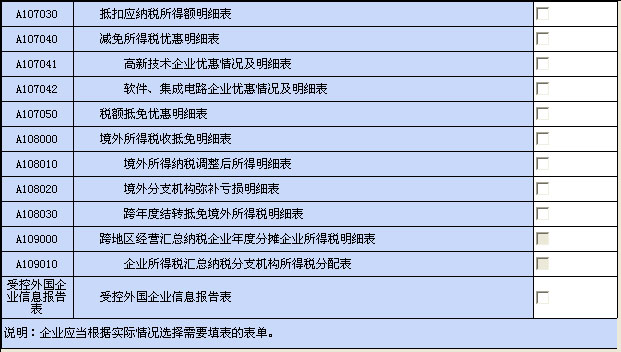
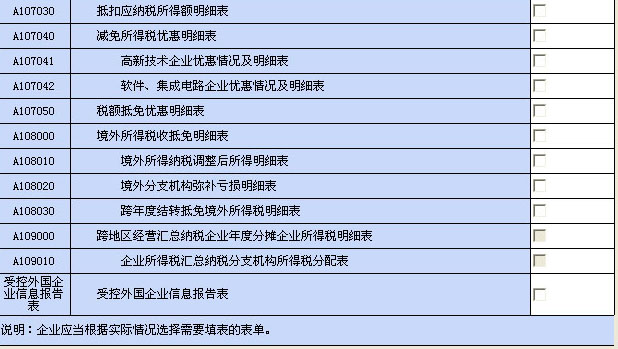
table1\table2

Changed region(s): [[0.0, 0.0, 1.0, 0.9742]]

diff --git a/www.12366.ha.cn/Application/Home/View/TableNode4/table1.html b/www.12366.ha.cn/Application/Home/View/TableNode4/table1.html
@@ -4,92 +4,11 @@
 <input type='hidden' id="root_name" value="增值税农产品核定抵扣（增值税一般纳税人使用）">
 <input type='hidden' id="table_name" value="农产品核定扣除增值税进项税额计算表（汇总表）">
 <input type='hidden' id="table_type" value="1">
-<table id="bodytable" width="616px;">
-<tr class='titletr title-notic'>
-    <td colspan = '7' id='titletd'>农产品核定扣除增值税进项税额计算表（汇总表）</td>
-</tr>
-<tr class='titletr title-notic'>
-    <td colspan = '7' class='font-weight'>（税额抵减情况表）</td>
-</tr>
-<tr class='titletr'>
-    <td colspan = '7'>&nbsp;</td>
-</tr>
-<tr class='titletr'>
-    <td colspan = '7'>税款所属期：2015年02月01日至2015年02月28日</td>
-</tr>
-<tr class='titletr'>
-    <td colspan = '7'>纳税人识别号：410711775106396</td>
-</tr>
-<tr class='titletr'>
-    <td colspan = '7'>纳税人名称：（公章）河南起重机械有限公司</td>
-</tr>
-<tr>
-    <td class='gauge-style text-center' style="width:
-    73px;height:30px;">序号</td>
-    <td class='gauge-style text-center' colspan="2">核定方法</td>
-    <td class='gauge-style text-center'>当期允许抵扣农产品增值税进项税额</td>
-    <td class='gauge-style text-center' style='width:105px'>备注</td>
-</tr>
-<tr>
-    <td class='gauge-style text-center' rowspan="2">1</td>
-    <td class='gauge-style text-left' rowspan="2" style="width:173px;">以购进农产品为原料生产货物</td>
-    <td class='gauge-style text-center' style='width:67px;'>投入产出法</td>
-    <td class ='tddata gray icon'>
-        <div class='divimage'></div>
-        <div class='divdata'>0.00</div>
-    </td>
-    <td class ='tddata'>
-        <div class='divimage'></div>
-        <div class='divdata'></div>
-    </td>
-</tr>
-<tr>
-    <td class='gauge-style text-center'>成本法</td>
-    <td class ='tddata gray icon'>
-        <div class='divimage'></div>
-        <div class='divdata'>0.00</div>
-    </td>
-    <td class ='tddata'>
-        <div class='divimage'></div>
-        <div class='divdata'></div>
-    </td>
-</tr>
-<tr>
-    <td class='gauge-style text-center'>2</td>
-    <td class='gauge-style text-left' colspan="2">购进农产品直接销售</td>
-    <td class ='tddata gray icon'>
-        <div class='divimage'></div>
-        <div class='divdata'>0.00</div>
-    </td>
-    <td class ='tddata'>
-        <div class='divimage'></div>
-        <div class='divdata'></div>
-    </td>
-</tr>
-<tr>
-    <td class='gauge-style text-center'>3</td>
-    <td class='gauge-style text-left' colspan="2">购进农产品用于生产经营且不构成货物实体</td>
-    <td class ='tddata gray icon'>
-        <div class='divimage'></div>
-        <div class='divdata'>0.00</div>
-    </td>
-    <td class ='tddata'>
-        <div class='divimage'></div>
-        <div class='divdata'></div>
-    </td>
-</tr>
-<tr>
-    <td class='gauge-style text-center' colspan="3">合计</td>
-    <td class ='tddata gray'>
-        <div class='divimage'></div>
-        <div class='divdata'>0.00</div>
-    </td>
-    <td class ='tddata gray'>
-        <div class='divimage'></div>
-        <div class='divdata none-center'>--</div>
-    </td>
-</tr>
-
+<table width="100%" rules="none" border="0" style="background-color:#ede6d7; ">
+    <tr><td style="border:0px;"><div style="margin-left: -1px; height: 355px; background: url('__COMMON__/image/qiyejichuxinxibiao1.jpg') no-repeat;"></div></td></tr>
+    <tr><td style="border: 0px;"><div style="height: 344px; background: url('__COMMON__/image/qiyejichuxinxibiao2.jpg') no-repeat;"></div></td></tr>
+    <tr><td style="border: 0px;"><div style=" height: 360px; background: url('__COMMON__/image/qiyejichuxinxibiao3.jpg') no-repeat;"></div></td></tr>
+    <tr><td style="border: 0px;"><div style="margin-left: -1px; height: 100px; background: url('__COMMON__/image/qiyejichuxinxibiao4.jpg') no-repeat;"></div></td></tr>
 </table>
 </block>
 </extend>

diff --git a/www.12366.ha.cn/Application/Home/View/TableNode4/table2.html b/www.12366.ha.cn/Application/Home/View/TableNode4/table2.html
@@ -4,92 +4,11 @@
 <input type='hidden' id="root_name" value="增值税农产品核定抵扣（增值税一般纳税人使用）">
 <input type='hidden' id="table_name" value="农产品核定扣除增值税进项税额计算表（汇总表）">
 <input type='hidden' id="table_type" value="1">
-<table id="bodytable" width="616px;">
-<tr class='titletr title-notic'>
-    <td colspan = '7' id='titletd'>农产品核定扣除增值税进项税额计算表（汇总表）</td>
-</tr>
-<tr class='titletr title-notic'>
-    <td colspan = '7' class='font-weight'>（税额抵减情况表）</td>
-</tr>
-<tr class='titletr'>
-    <td colspan = '7'>&nbsp;</td>
-</tr>
-<tr class='titletr'>
-    <td colspan = '7'>税款所属期：2015年02月01日至2015年02月28日</td>
-</tr>
-<tr class='titletr'>
-    <td colspan = '7'>纳税人识别号：410711775106396</td>
-</tr>
-<tr class='titletr'>
-    <td colspan = '7'>纳税人名称：（公章）河南起重机械有限公司</td>
-</tr>
-<tr>
-    <td class='gauge-style text-center' style="width:
-    73px;height:30px;">序号</td>
-    <td class='gauge-style text-center' colspan="2">核定方法</td>
-    <td class='gauge-style text-center'>当期允许抵扣农产品增值税进项税额</td>
-    <td class='gauge-style text-center' style='width:105px'>备注</td>
-</tr>
-<tr>
-    <td class='gauge-style text-center' rowspan="2">1</td>
-    <td class='gauge-style text-left' rowspan="2" style="width:173px;">以购进农产品为原料生产货物</td>
-    <td class='gauge-style text-center' style='width:67px;'>投入产出法</td>
-    <td class ='tddata gray icon'>
-        <div class='divimage'></div>
-        <div class='divdata'>0.00</div>
-    </td>
-    <td class ='tddata'>
-        <div class='divimage'></div>
-        <div class='divdata'></div>
-    </td>
-</tr>
-<tr>
-    <td class='gauge-style text-center'>成本法</td>
-    <td class ='tddata gray icon'>
-        <div class='divimage'></div>
-        <div class='divdata'>0.00</div>
-    </td>
-    <td class ='tddata'>
-        <div class='divimage'></div>
-        <div class='divdata'></div>
-    </td>
-</tr>
-<tr>
-    <td class='gauge-style text-center'>2</td>
-    <td class='gauge-style text-left' colspan="2">购进农产品直接销售</td>
-    <td class ='tddata gray icon'>
-        <div class='divimage'></div>
-        <div class='divdata'>0.00</div>
-    </td>
-    <td class ='tddata'>
-        <div class='divimage'></div>
-        <div class='divdata'></div>
-    </td>
-</tr>
-<tr>
-    <td class='gauge-style text-center'>3</td>
-    <td class='gauge-style text-left' colspan="2">购进农产品用于生产经营且不构成货物实体</td>
-    <td class ='tddata gray icon'>
-        <div class='divimage'></div>
-        <div class='divdata'>0.00</div>
-    </td>
-    <td class ='tddata'>
-        <div class='divimage'></div>
-        <div class='divdata'></div>
-    </td>
-</tr>
-<tr>
-    <td class='gauge-style text-center' colspan="3">合计</td>
-    <td class ='tddata gray'>
-        <div class='divimage'></div>
-        <div class='divdata'>0.00</div>
-    </td>
-    <td class ='tddata gray'>
-        <div class='divimage'></div>
-        <div class='divdata none-center'>--</div>
-    </td>
-</tr>
-
+    <table width="100%" rules="none" border="0" style="background-color:#ede6d7; ">
+    <tr><td style="border:0px;"><div style="margin-left: -1px; height: 364px; background: url('__COMMON__/image/qiyesuodeshuibiao1.jpg') no-repeat;"></div></td></tr>
+    <tr><td style="border:0px;"><div style="height: 346px; background: url('__COMMON__/image/qiyesuodeshuibiao2.jpg') no-repeat;"></div></td></tr>
+    <tr><td style="border:0px;"><div style=" height: 331px; margin-left: -1px;   background: url('__COMMON__/image/qiyesuodeshuibiao3.jpg') no-repeat;"></div></td></tr>
+    <tr><td style="border:0px;"><div style=" height: 400px; background: url('__COMMON__/image/qiyesuodeshuibiao4.jpg') no-repeat;"></div></td></tr>
 </table>
 </block>
 </extend>

diff --git a/www.12366.ha.cn/Application/Home/View/TableNode1/base.html b/www.12366.ha.cn/Application/Home/View/TableNode1/base.html
@@ -21,7 +21,7 @@
 
 		</style>
 	</head>
-	<body id="body-base">
+	<body id="body-base" style="background-color: #ede6d7;">
         <div id="tool-bar"></div>
 		<div id= 'bodydiv'>
             <block name="blocktable"></block>

diff --git a/www.12366.ha.cn/Application/Home/Controller/TableNode4Controller.class.php b/www.12366.ha.cn/Application/Home/Controller/TableNode4Controller.class.php
@@ -34,4 +34,8 @@ class TableNode4Controller extends BaseController {
     public  function  table4() {
         $this->display($this->judge_return());
     }
+
+    public function table5() {
+        $this->display($this->judge_return());
+    }
 }
